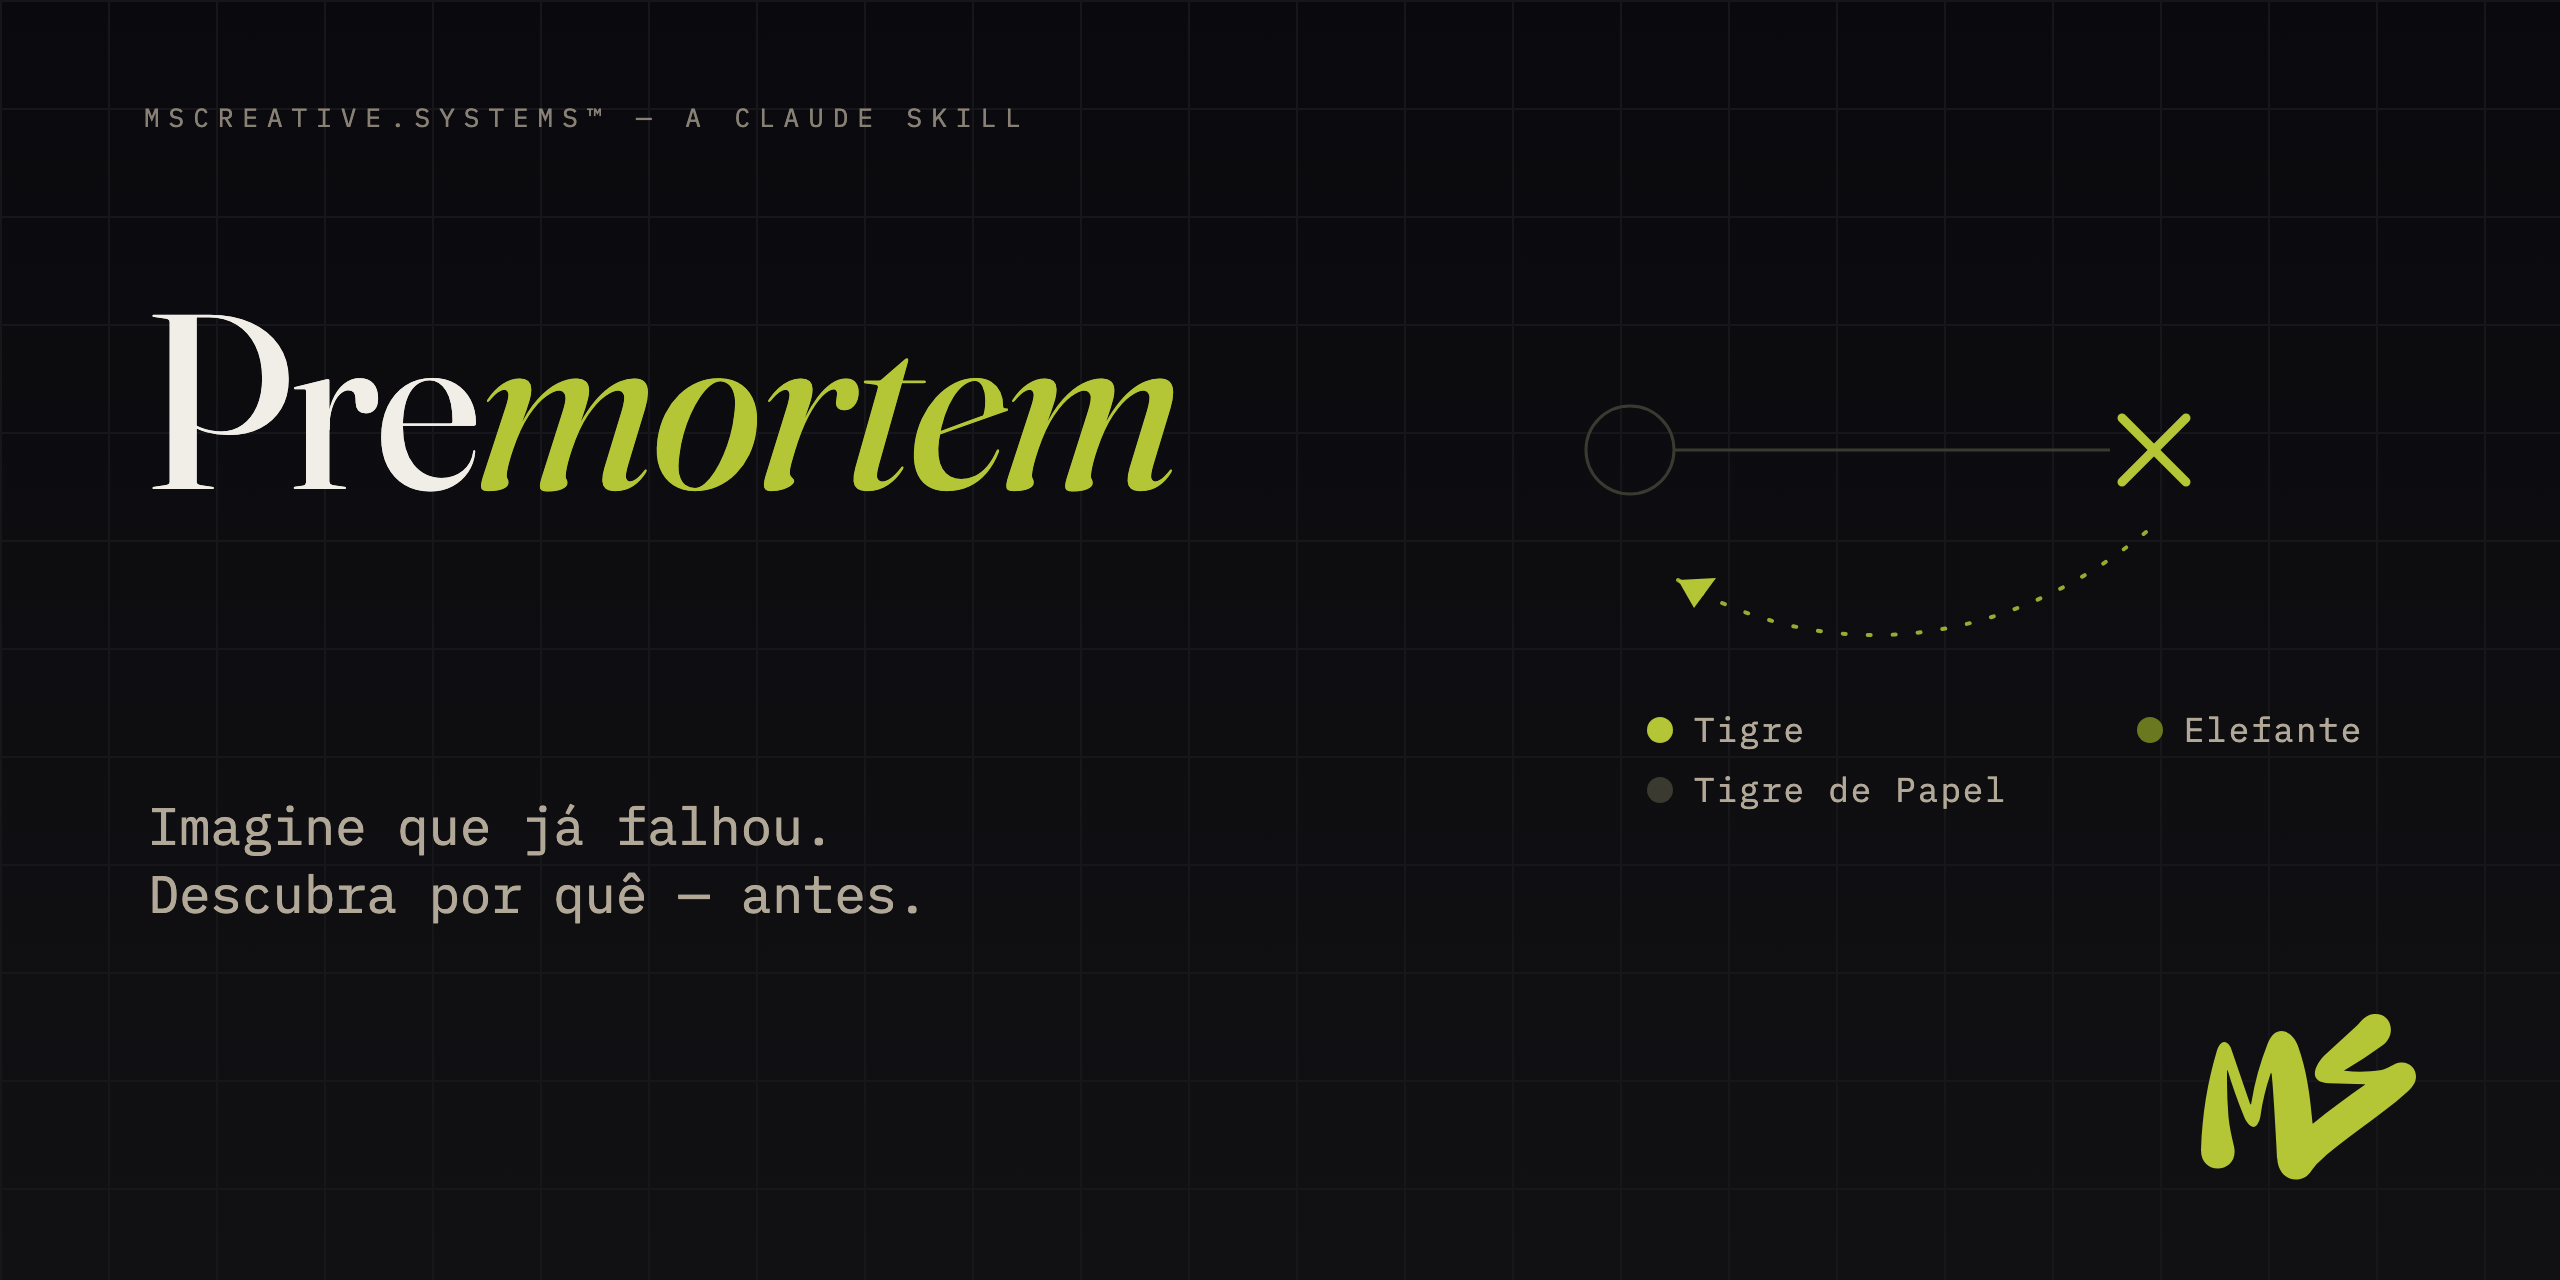
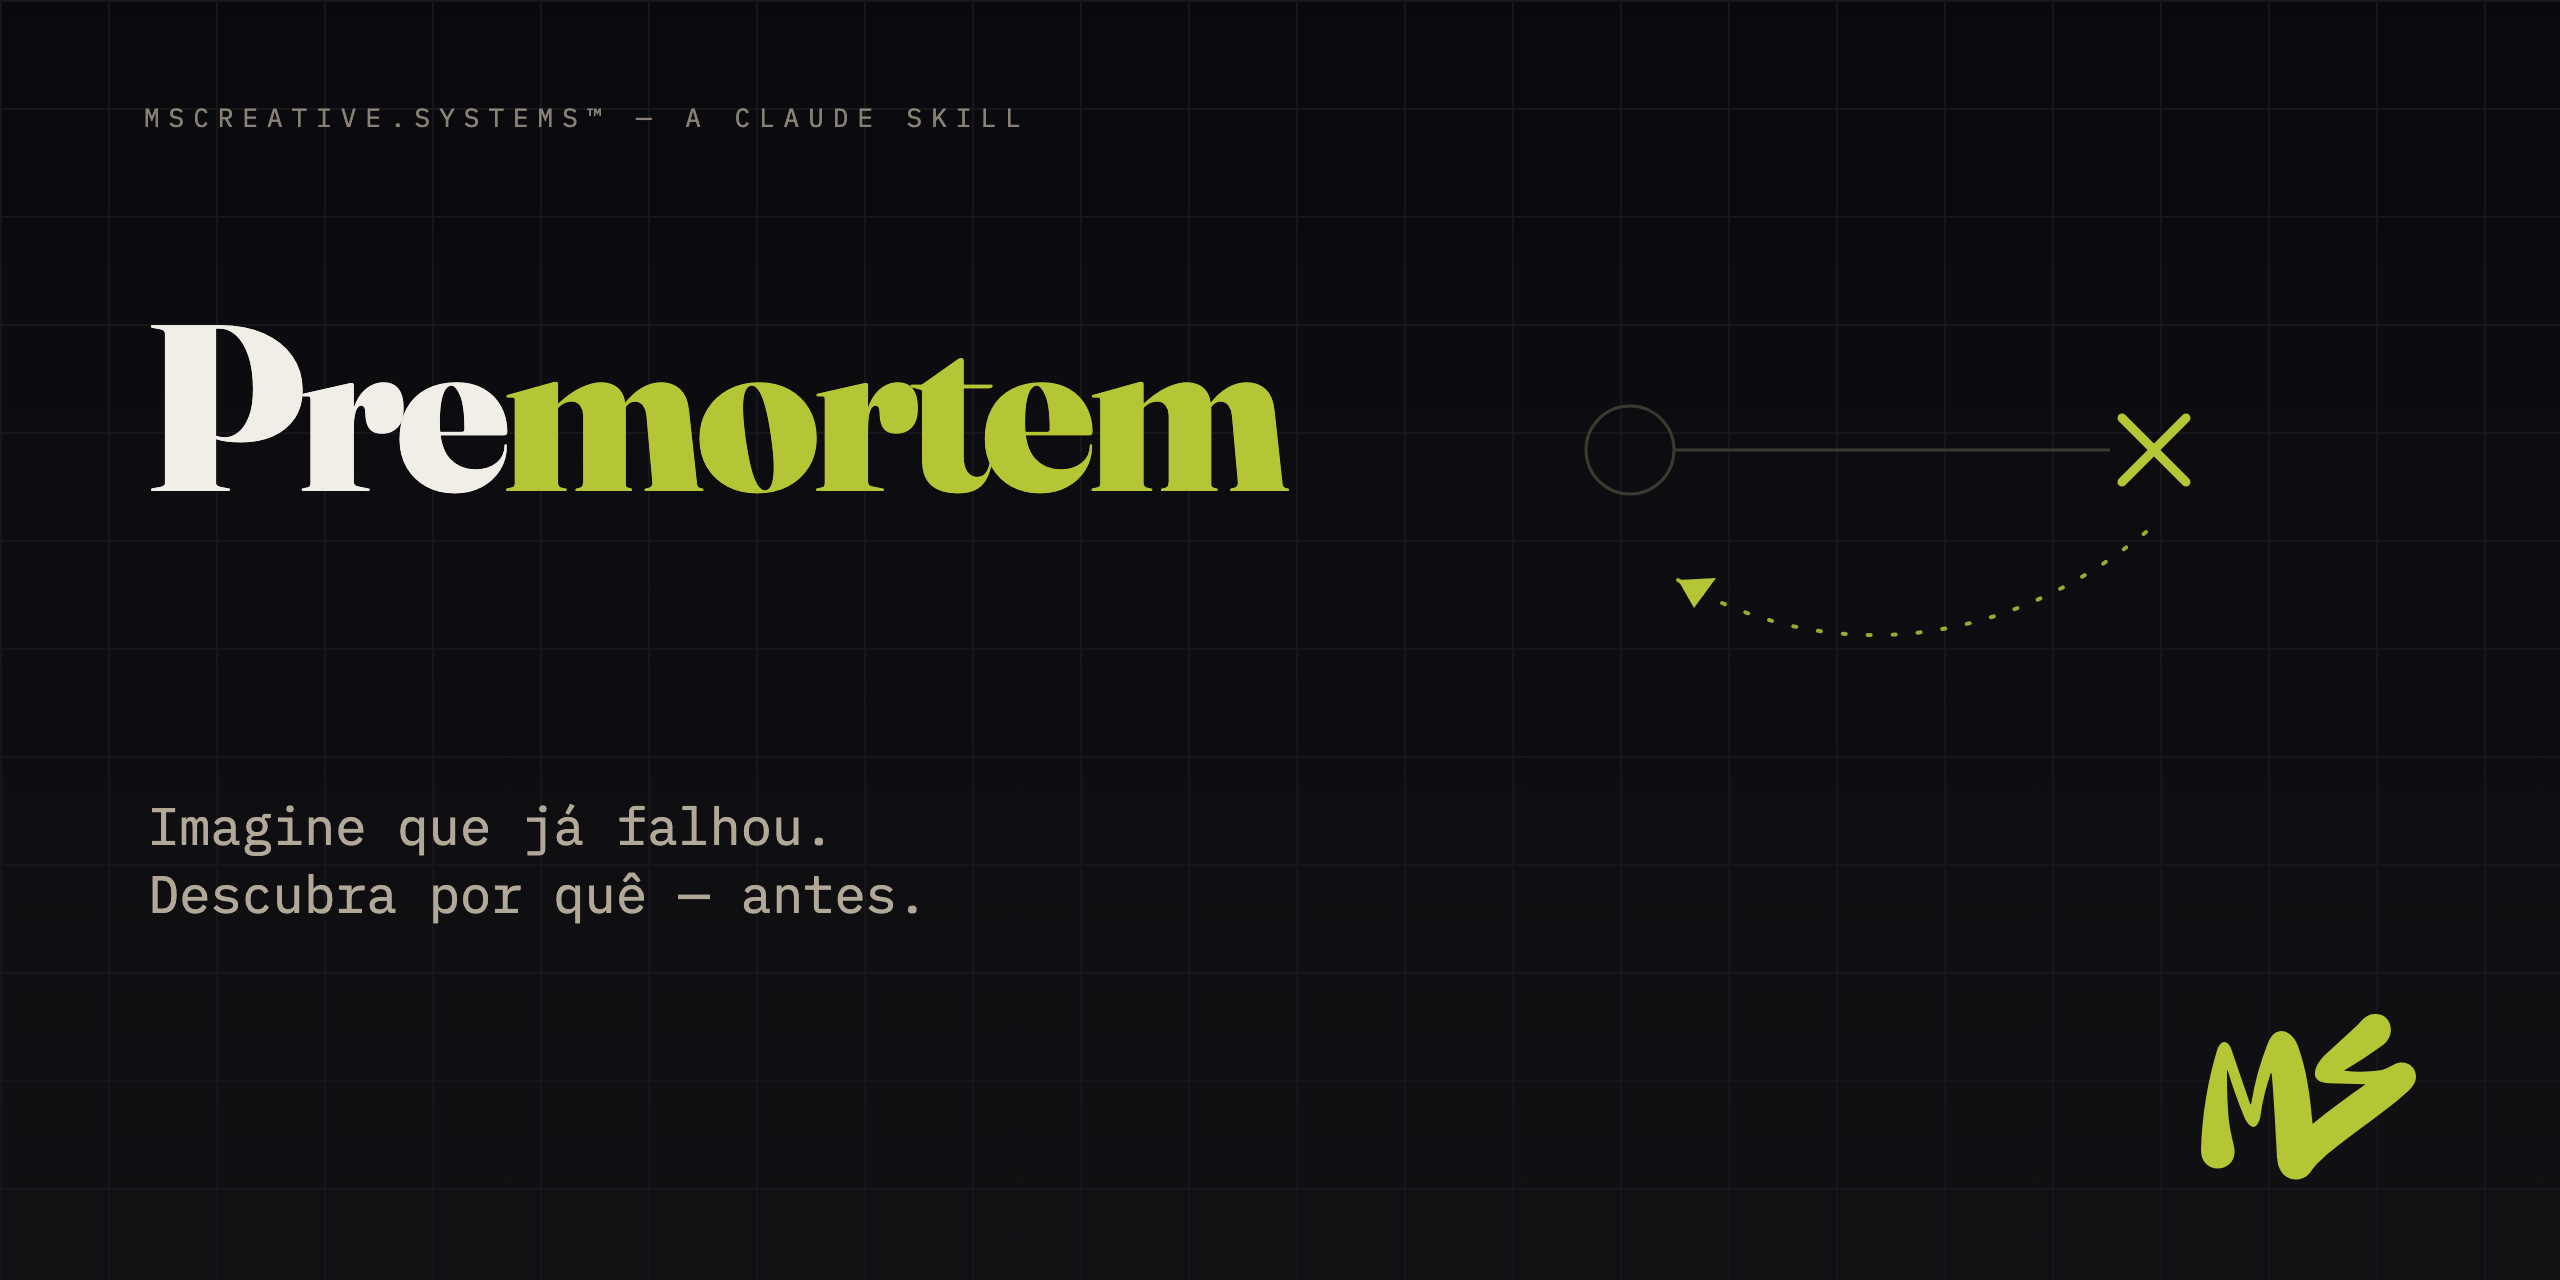
fix(card): título Fraunces 900 (legibilidade) + remove rótulos de triagem do diagrama

Changed region(s): [[0.0625, 0.2188, 0.5, 0.4062], [0.625, 0.5625, 0.7812, 0.625], [0.8125, 0.5625, 0.9375, 0.5938]]

diff --git a/assets/social-preview.html b/assets/social-preview.html
@@ -1,12 +1,12 @@
-<!doctype html><html lang="pt-BR"><head><meta charset="utf-8"><link rel="preconnect" href="https://fonts.googleapis.com"><link rel="preconnect" href="https://fonts.gstatic.com" crossorigin><link href="https://fonts.googleapis.com/css2?family=Fraunces:ital,opsz,wght@0,9..144,300..700;1,9..144,300..700&family=IBM+Plex+Mono:wght@400;500&display=swap" rel="stylesheet">
+<!doctype html><html lang="pt-BR"><head><meta charset="utf-8"><link rel="preconnect" href="https://fonts.googleapis.com"><link rel="preconnect" href="https://fonts.gstatic.com" crossorigin><link href="https://fonts.googleapis.com/css2?family=Fraunces:opsz,wght@9..144,600;9..144,900&family=IBM+Plex+Mono:wght@400;500&display=swap" rel="stylesheet">
 <style>
 *{margin:0;padding:0;box-sizing:border-box}
 body{width:2560px;height:1280px;position:relative;overflow:hidden;background-color:#0A0A0E;
 background-image:linear-gradient(#16161B 2px,transparent 2px),linear-gradient(90deg,#16161B 2px,transparent 2px),linear-gradient(180deg,#0A0A0E 0%,#111114 100%);
 background-size:108px 108px,108px 108px,100% 100%;}
 .kicker{position:absolute;top:100px;left:144px;font-family:'IBM Plex Mono',monospace;font-size:26px;letter-spacing:9px;color:#B2A898;opacity:.75}
-.title{position:absolute;left:144px;top:288px;font-family:'Fraunces',Georgia,serif;font-optical-sizing:auto;font-weight:420;font-size:248px;line-height:.9;color:#F0EEE6;letter-spacing:-3px}
-.title em{font-style:italic;color:#B4C636}
+.title{position:absolute;left:144px;top:300px;font-family:'Fraunces',Georgia,serif;font-optical-sizing:auto;font-variation-settings:"opsz" 144;font-weight:900;font-size:236px;line-height:.9;color:#F0EEE6;letter-spacing:-7px}
+.title em{font-style:normal;color:#B4C636}
 .subtitle{position:absolute;left:148px;top:792px;font-family:'IBM Plex Mono',monospace;font-size:52px;line-height:1.3;color:#B2A898;max-width:1500px}
 .monogram{position:absolute;right:144px;bottom:100px;width:215px;color:#B4C636}
 .diagram{position:absolute;right:150px;top:300px;width:900px;height:560px}
@@ -31,12 +31,6 @@ background-size:108px 108px,108px 108px,100% 100%;}
   </g>
   <g fill="#B4C636">
     <path d="M168 280 l 38 -2 l -22 30 z"/>
-  </g>
-  <!-- triage dots -->
-  <g font-family="'IBM Plex Mono',monospace" font-size="34" fill="#B2A898" letter-spacing="2">
-    <circle cx="150" cy="430" r="13" fill="#B4C636"/><text x="184" y="442">Tigre</text>
-    <circle cx="150" cy="490" r="13" fill="#3A3A30"/><text x="184" y="502">Tigre de Papel</text>
-    <circle cx="640" cy="430" r="13" fill="#6A7820"/><text x="674" y="442">Elefante</text>
   </g>
 </svg>
 <svg class="monogram" viewBox="0 0 67.19667 51.75458" xmlns="http://www.w3.org/2000/svg" aria-label="MS"><path fill="currentColor" d="M8.15479,17.66986c-.10727,4.76875.03115,9.5285.41527,14.27922.25365,3.1651,1.03955,6.29608,1.74645,9.47888C12.17932,49.84272-.28837,51.03399.0051,42.2846c.35921-10.7694,2.02753-21.07894,5.00492-30.92856.43105-1.41773,1.65413-3.47677,3.2464-2.21435.53746.42306.92911.9969,1.17496,1.72154l5.78538,16.91602c.23584.68769.41046.67353.52387-.04254,1.02383-6.35386,2.74577-12.56867,5.16579-18.64433,2.42341-6.08573,7.57839-4.14271,9.40284.91599,2.77922,7.71993,3.71882,15.26481,4.54493,24.0988.01976.18583.11541.20673.28695.06271,5.16382-4.20649,10.48613-8.20113,15.96693-11.98388.2477-.17071.22158-.25977-.07835-.26709-3.61598-.09368-7.23981-.18066-10.87148-.26095-7.39821-.16475-4.36055-6.1619-1.09576-9.14847,3.1263-2.86316,6.25148-5.72857,9.37556-8.59623,1.40786-1.29146,2.61261-3.41267,5.0914-3.82386,5.89972-.9766,7.89921,6.29685,3.23346,9.68677-3.83797,2.79228-7.80539,5.39743-11.90226,7.81541-.15464.09367-.14189.15021.03827.16962,3.88277.43335,7.73249.3423,11.54916-.27318,2.22015-.35804,3.71273-2.03541,5.76647-2.29809,3.64903-.46082,6.04224,3.15361,4.51287,6.37544-.40245.85424-1.13742,1.76487-2.20492,2.73191-9.11467,8.26941-20.20634,14.6041-28.33323,22.56665-1.08504,1.06379-2.30373,3.42673-3.57933,4.09058-4.6234,2.39615-8.52986-.9142-8.76183-5.62878-.18359-3.7576-1.48526-26.94142-1.86815-26.88513-.09989.01549-.20829.14727-.27434.33352-1.46726,4.3048-2.51335,8.71175-3.13827,13.2209-.12499.90632-.43616,1.72773-.9335,2.46426-1.56103,2.29841-3.54903-.8048-4.06681-2.08179-2.07112-5.11908-3.79413-9.98508-5.16903-14.59797-.02544-.08589-.07445-.14821-.12558-.15976l-.05874-.0085c-.02576-.00602-.05156.01476-.05761.04636-.00077.00405-.00119.00814-.00126.01226l-.00003-.00003Z"/></svg>